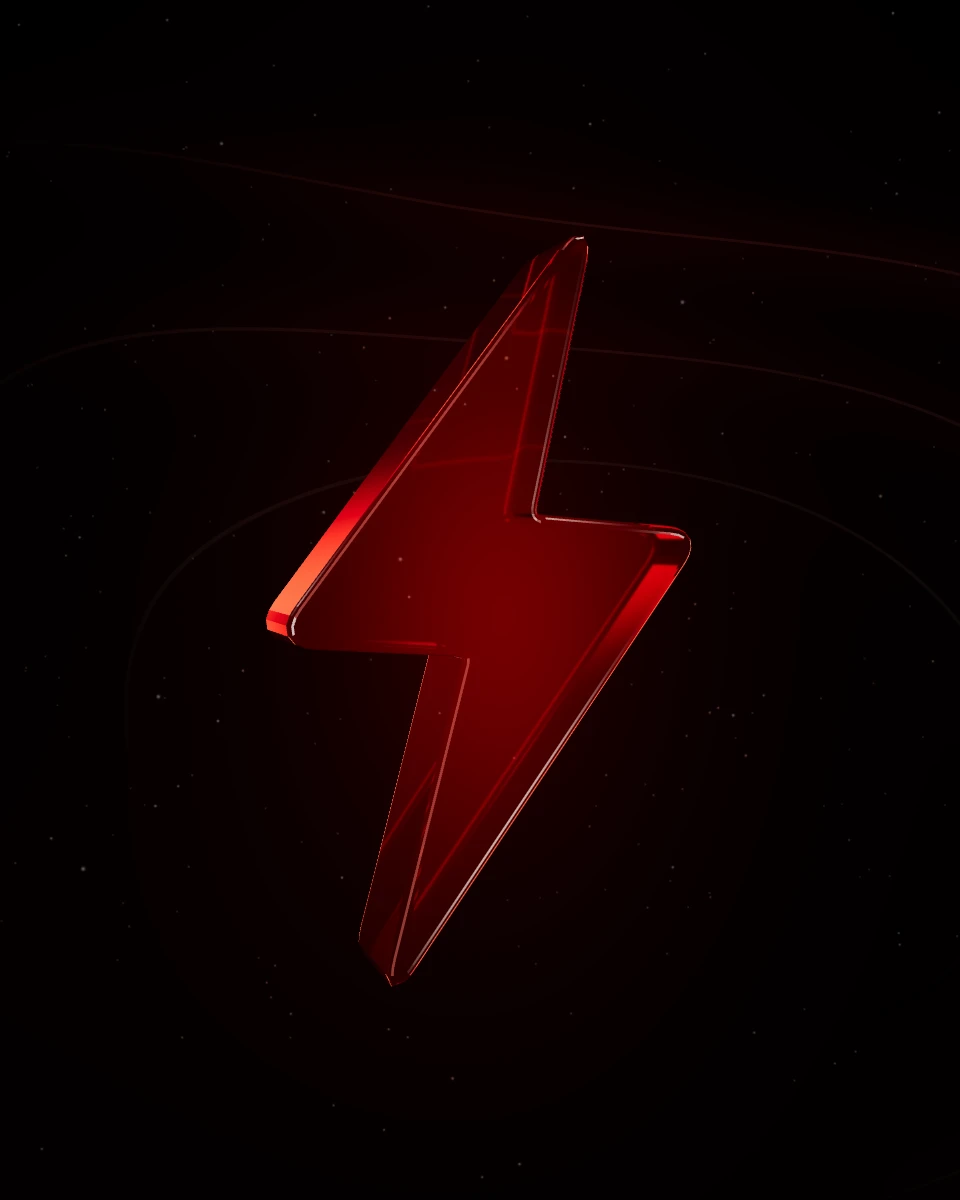
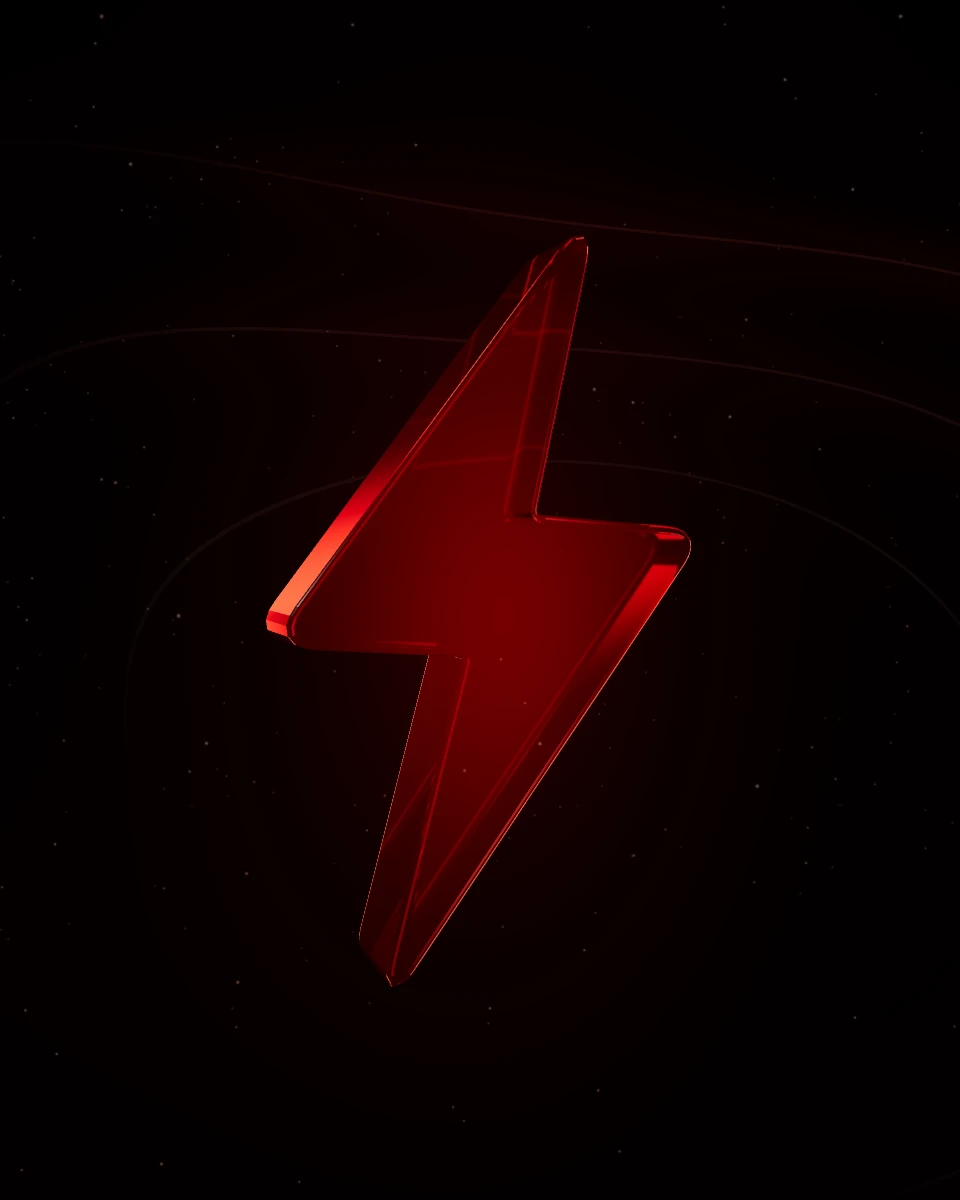
étape 9 : verre sans face blanche ni rose (studio de lumière rouge), bloc final qui prend le relais plus tard sur petit iPhone, finitions du contact, de la FAQ et des boutons
- studio de lumière : la grande boîte et les bandes claires passent au rouge ; une face plane vue en rasant renvoie un rouge lumineux au lieu d'un blanc saturé
- images fixes de l'éclair régénérées avec ce rendu
- accueil : le chapitre 4 garde son texte jusqu'à ce que le titre du bloc final soit à l'écran (iPhone avec barre d'adresse affichée)
- contact : surtitres des trois cartes à la même hauteur, bouton e-mail en bas de carte
- FAQ : questions alignées sur le titre ; mentions des deux badges plus écartées ; menu sur une ligne ; focus des boutons dégagé de la lame rouge

Claude-Session: https://claude.ai/code/session_013u129ipLgSJq7hNFvTtcP9

diff --git a/index.html b/index.html
@@ -14,9 +14,9 @@
 <link rel="apple-touch-icon" href="assets/img/apple-touch-icon.png">
 <link rel="preload" href="assets/fonts/anton-400.woff2" as="font" type="font/woff2" crossorigin>
 <link rel="preload" href="assets/fonts/exo2-400.woff2" as="font" type="font/woff2" crossorigin>
-<link rel="stylesheet" href="assets/css/tokens.css?v=20261006-1335">
-<link rel="stylesheet" href="assets/css/base.css?v=20261006-1335">
-<link rel="stylesheet" href="assets/css/accueil.css?v=20261006-1335">
+<link rel="stylesheet" href="assets/css/tokens.css?v=20261006-1400">
+<link rel="stylesheet" href="assets/css/base.css?v=20261006-1400">
+<link rel="stylesheet" href="assets/css/accueil.css?v=20261006-1400">
 <!-- /gabarit:tete -->
 <title>Flash eSport — L'app des résultats eSport en direct</title>
 <meta name="description" content="Flash eSport, l'application française des résultats eSport : scores en direct, calendrier et tournois de tes équipes sur CS2, LoL, VALORANT, Dota 2, R6 et Rocket League.">
@@ -106,7 +106,7 @@
     <span class="loader-bar"><span id="loader-fill"></span></span>
   </div>
 </div>
-<script src="assets/js/demarrage.js?v=20261006-1335"></script>
+<script src="assets/js/demarrage.js?v=20261006-1400"></script>
 <!-- gabarit:entete -->
 <a class="lien-evitement" href="#contenu">Aller au contenu</a>
 <header class="entete">
@@ -305,8 +305,8 @@
 <div class="cursor-label" aria-hidden="true">000</div>
 <canvas id="webgl" aria-hidden="true"></canvas>
 <!-- gabarit:scripts -->
-<script src="assets/js/site.js?v=20261006-1335" defer></script>
-<script type="module" src="assets/js/accueil.js?v=20261006-1335"></script>
+<script src="assets/js/site.js?v=20261006-1400" defer></script>
+<script type="module" src="assets/js/accueil.js?v=20261006-1400"></script>
 <!-- /gabarit:scripts -->
 </body>
 </html>

diff --git a/assets/js/app.js b/assets/js/app.js
@@ -165,13 +165,13 @@ function createGlassEnvironment() {
     const studio = new THREE.Scene();
     studio.background = new THREE.Color('#0a0606');
     const panels = [
-        [2.8, 8, -4, 2, 3, '#ffa094', 1.5],      // grande boîte : rouge clair, pour que les faces ne blanchissent pas
-        [0.45, 7, 3, 1, 2, '#ffe6e0', 3.8],      // bandes fines blanches : elles dessinent les arêtes
-        [5, 0.7, 0, 5, -1, '#ffe2da', 2.8],
+        [2.8, 8, -4, 2, 3, '#f03226', 1.2],      // grande boîte : rouge clair, pour que les faces ne blanchissent pas
+        [0.45, 7, 3, 1, 2, '#ff5c4a', 2.6],      // bandes fines blanches : elles dessinent les arêtes
+        [5, 0.7, 0, 5, -1, '#ff5846', 2.2],
         [0.5, 6, -2, 0, -4, '#e01818', 3.4],
         [1.0, 5, 3, -1, -3, '#ff4a3a', 2.6],
         [4, 0.35, 0, -3, 3, '#ff2020', 3.0],
-        [0.16, 5, -3, 0, 2, '#ffffff', 6.0],
+        [0.16, 5, -3, 0, 2, '#ff4e3e', 3.0],
         [0.35, 4, 4, 0, -2, '#ff5a3c', 2.0]
     ];
     for (const [w, h, x, y, z, color, intensity] of panels) {
@@ -1240,7 +1240,7 @@ function readScroll() {
     // section, plus haute que lui, dépasse le bas de la fenêtre) : le chapitre 4 garde son texte et son
     // éclair jusque-là, il n'y a jamais d'écran sans texte entre les deux.
     if (contactSection) {
-        const enter = clamp(0.06 + contactCardElement.offsetTop / window.innerHeight, 0, 0.8);
+        const enter = clamp(0.14 + contactCardElement.offsetTop / window.innerHeight, 0, 0.8);
         targetContact = clamp(((scrollTop - maxScroll) / window.innerHeight - enter) / (1 - enter), 0, 1);
     } else targetContact = 0;
     finalOpen = targetContact > 0.02;

diff --git a/assets/css/pages.css b/assets/css/pages.css
@@ -56,6 +56,9 @@ main > .page-tete:last-child { padding-bottom: var(--e-6); }
 }
 .contact-mail:hover { background-size: 100% 4px; }
 .carte h2 { margin-bottom: 0.75rem; }
+.carte .surtitre { display: flex; }
+.contact-bloc .carte:first-child .btn { margin-top: auto; }
+.contact-bloc .carte:first-child p { margin-bottom: 1.5rem; }
 .carte p { color: var(--texte-doux); }
 .carte p + p { margin-top: 0.75rem; }
 .carte .btn { margin-top: 1.25rem; }
@@ -72,7 +75,7 @@ main > .page-tete:last-child { padding-bottom: var(--e-6); }
 .faq details { border-bottom: 1px solid var(--trait); }
 .faq summary {
   position: relative; display: flex; align-items: center; justify-content: space-between; gap: 1.5rem;
-  min-height: 72px; padding: 1.25rem 0.25rem; cursor: pointer; list-style: none;
+  min-height: 72px; padding: 1.25rem 0; cursor: pointer; list-style: none;
   font-family: var(--police-titre); font-size: clamp(1.25rem, 2.6vw, 1.625rem); line-height: 1.2; letter-spacing: 0.02em;
   text-transform: uppercase; color: var(--blanc);
   transition: color 0.3s ease;
@@ -92,7 +95,7 @@ main > .page-tete:last-child { padding-bottom: var(--e-6); }
   content: ""; position: absolute; left: 0; bottom: 0; width: 3.5rem; height: 2px; border-radius: 2px;
   background: var(--rouge-lumiere); box-shadow: 0 0 14px 1px var(--rouge-halo);
 }
-.faq .reponse { padding: 1.1rem 0.25rem 1.6rem; max-width: 62ch; color: var(--texte-doux); }
+.faq .reponse { padding: 1.1rem 0 1.6rem; max-width: 62ch; color: var(--texte-doux); }
 .faq .reponse p + p { margin-top: 0.75rem; }
 
 /* ---- Pages légales : lecture confortable ---- */

diff --git a/assets/css/base.css b/assets/css/base.css
@@ -145,7 +145,7 @@ html[data-qualite="1"] .pied, html[data-qualite="2"] .pied {
 
 .nav { display: flex; align-items: center; gap: clamp(1.25rem, 2.6vw, 2.25rem); }
 .nav a {
-  position: relative; display: inline-flex; align-items: center; min-height: 44px;
+  position: relative; display: inline-flex; align-items: center; min-height: 44px; white-space: nowrap;
   font-size: var(--t-petit); font-weight: 500; letter-spacing: 0.06em;
   color: var(--texte-doux); text-decoration: none;
   transition: color 0.35s ease;
@@ -213,7 +213,7 @@ html[data-qualite="1"] .pied, html[data-qualite="2"] .pied {
 }
 /* Appui (iPhone) : légère compression, retour élastique. */
 .btn:active { transform: scale(0.97); transition-duration: 0.35s, 0.35s, 0.09s; }
-.btn:focus-visible { outline: 1.5px solid var(--blanc); outline-offset: 4px; }
+.btn:focus-visible { outline: 1.5px solid var(--blanc); outline-offset: 7px; }
 a, button, summary { -webkit-tap-highlight-color: transparent; }
 .btn-rouge {
   background: var(--rouge-fond); border-color: var(--rouge-contour);
@@ -266,6 +266,7 @@ a.badge-lien:focus-visible::after { opacity: 1; transform: none; }
 }
 /* Téléphone : la mention ne doit jamais être plus large que son badge. */
 @media (max-width: 599px) { .badge-mention { font-size: 0.5938rem; letter-spacing: 0.1em; } }
+@media (min-width: 600px) { .badges { column-gap: 1.75rem; } }
 @media (max-width: 359px) { .badges { --badge-h: 40px; --badge-g: 52px; --badge-gm: -6px; gap: 0.75rem; } }
 
 /* ---- Liens de texte ---- */

diff --git a/telechargement.html b/telechargement.html
@@ -14,9 +14,9 @@
 <link rel="apple-touch-icon" href="assets/img/apple-touch-icon.png">
 <link rel="preload" href="assets/fonts/anton-400.woff2" as="font" type="font/woff2" crossorigin>
 <link rel="preload" href="assets/fonts/exo2-400.woff2" as="font" type="font/woff2" crossorigin>
-<link rel="stylesheet" href="assets/css/tokens.css?v=20261006-1335">
-<link rel="stylesheet" href="assets/css/base.css?v=20261006-1335">
-<link rel="stylesheet" href="assets/css/pages.css?v=20261006-1335">
+<link rel="stylesheet" href="assets/css/tokens.css?v=20261006-1400">
+<link rel="stylesheet" href="assets/css/base.css?v=20261006-1400">
+<link rel="stylesheet" href="assets/css/pages.css?v=20261006-1400">
 <!-- /gabarit:tete -->
 <title>Téléchargement — Flash eSport</title>
 <meta name="description" content="Télécharger Flash eSport, l'application gratuite de résultats eSport : très bientôt sur iPhone (App Store), puis sur Android (Google Play).">
@@ -117,7 +117,7 @@
 </footer>
 <!-- /gabarit:pied -->
 <!-- gabarit:scripts -->
-<script src="assets/js/site.js?v=20261006-1335" defer></script>
+<script src="assets/js/site.js?v=20261006-1400" defer></script>
 <!-- /gabarit:scripts -->
 </body>
 </html>

diff --git a/mentions-legales.html b/mentions-legales.html
@@ -14,9 +14,9 @@
 <link rel="apple-touch-icon" href="assets/img/apple-touch-icon.png">
 <link rel="preload" href="assets/fonts/anton-400.woff2" as="font" type="font/woff2" crossorigin>
 <link rel="preload" href="assets/fonts/exo2-400.woff2" as="font" type="font/woff2" crossorigin>
-<link rel="stylesheet" href="assets/css/tokens.css?v=20261006-1335">
-<link rel="stylesheet" href="assets/css/base.css?v=20261006-1335">
-<link rel="stylesheet" href="assets/css/pages.css?v=20261006-1335">
+<link rel="stylesheet" href="assets/css/tokens.css?v=20261006-1400">
+<link rel="stylesheet" href="assets/css/base.css?v=20261006-1400">
+<link rel="stylesheet" href="assets/css/pages.css?v=20261006-1400">
 <!-- /gabarit:tete -->
 <title>Mentions légales — Flash eSport</title>
 <meta name="description" content="Mentions légales du site et de l'application Flash eSport.">
@@ -124,7 +124,7 @@ Contact : <a href="mailto:flashesport.app@gmail.com">flashesport.app@gmail.com</
 </footer>
 <!-- /gabarit:pied -->
 <!-- gabarit:scripts -->
-<script src="assets/js/site.js?v=20261006-1335" defer></script>
+<script src="assets/js/site.js?v=20261006-1400" defer></script>
 <!-- /gabarit:scripts -->
 </body>
 </html>

diff --git a/faq.html b/faq.html
@@ -14,9 +14,9 @@
 <link rel="apple-touch-icon" href="assets/img/apple-touch-icon.png">
 <link rel="preload" href="assets/fonts/anton-400.woff2" as="font" type="font/woff2" crossorigin>
 <link rel="preload" href="assets/fonts/exo2-400.woff2" as="font" type="font/woff2" crossorigin>
-<link rel="stylesheet" href="assets/css/tokens.css?v=20261006-1335">
-<link rel="stylesheet" href="assets/css/base.css?v=20261006-1335">
-<link rel="stylesheet" href="assets/css/pages.css?v=20261006-1335">
+<link rel="stylesheet" href="assets/css/tokens.css?v=20261006-1400">
+<link rel="stylesheet" href="assets/css/base.css?v=20261006-1400">
+<link rel="stylesheet" href="assets/css/pages.css?v=20261006-1400">
 <!-- /gabarit:tete -->
 <title>FAQ — Flash eSport</title>
 <meta name="description" content="Jeux couverts, compte, prix, Android, données : les réponses aux questions fréquentes sur l'app Flash eSport.">
@@ -136,7 +136,7 @@
 </footer>
 <!-- /gabarit:pied -->
 <!-- gabarit:scripts -->
-<script src="assets/js/site.js?v=20261006-1335" defer></script>
+<script src="assets/js/site.js?v=20261006-1400" defer></script>
 <!-- /gabarit:scripts -->
 </body>
 </html>

diff --git a/cgu.html b/cgu.html
@@ -14,9 +14,9 @@
 <link rel="apple-touch-icon" href="assets/img/apple-touch-icon.png">
 <link rel="preload" href="assets/fonts/anton-400.woff2" as="font" type="font/woff2" crossorigin>
 <link rel="preload" href="assets/fonts/exo2-400.woff2" as="font" type="font/woff2" crossorigin>
-<link rel="stylesheet" href="assets/css/tokens.css?v=20261006-1335">
-<link rel="stylesheet" href="assets/css/base.css?v=20261006-1335">
-<link rel="stylesheet" href="assets/css/pages.css?v=20261006-1335">
+<link rel="stylesheet" href="assets/css/tokens.css?v=20261006-1400">
+<link rel="stylesheet" href="assets/css/base.css?v=20261006-1400">
+<link rel="stylesheet" href="assets/css/pages.css?v=20261006-1400">
 <!-- /gabarit:tete -->
 <title>Conditions générales d'utilisation — Flash eSport</title>
 <meta name="description" content="Conditions générales d'utilisation de l'application et du site Flash eSport.">
@@ -224,7 +224,7 @@
 </footer>
 <!-- /gabarit:pied -->
 <!-- gabarit:scripts -->
-<script src="assets/js/site.js?v=20261006-1335" defer></script>
+<script src="assets/js/site.js?v=20261006-1400" defer></script>
 <!-- /gabarit:scripts -->
 </body>
 </html>

diff --git a/contact.html b/contact.html
@@ -14,9 +14,9 @@
 <link rel="apple-touch-icon" href="assets/img/apple-touch-icon.png">
 <link rel="preload" href="assets/fonts/anton-400.woff2" as="font" type="font/woff2" crossorigin>
 <link rel="preload" href="assets/fonts/exo2-400.woff2" as="font" type="font/woff2" crossorigin>
-<link rel="stylesheet" href="assets/css/tokens.css?v=20261006-1335">
-<link rel="stylesheet" href="assets/css/base.css?v=20261006-1335">
-<link rel="stylesheet" href="assets/css/pages.css?v=20261006-1335">
+<link rel="stylesheet" href="assets/css/tokens.css?v=20261006-1400">
+<link rel="stylesheet" href="assets/css/base.css?v=20261006-1400">
+<link rel="stylesheet" href="assets/css/pages.css?v=20261006-1400">
 <!-- /gabarit:tete -->
 <title>Contact — Flash eSport</title>
 <meta name="description" content="Une question, un bug ou une idée ? Écris à Flash eSport par e-mail, ou retrouve-nous sur Instagram et X.">
@@ -117,7 +117,7 @@
 </footer>
 <!-- /gabarit:pied -->
 <!-- gabarit:scripts -->
-<script src="assets/js/site.js?v=20261006-1335" defer></script>
+<script src="assets/js/site.js?v=20261006-1400" defer></script>
 <!-- /gabarit:scripts -->
 </body>
 </html>

diff --git a/privacy.html b/privacy.html
@@ -14,9 +14,9 @@
 <link rel="apple-touch-icon" href="assets/img/apple-touch-icon.png">
 <link rel="preload" href="assets/fonts/anton-400.woff2" as="font" type="font/woff2" crossorigin>
 <link rel="preload" href="assets/fonts/exo2-400.woff2" as="font" type="font/woff2" crossorigin>
-<link rel="stylesheet" href="assets/css/tokens.css?v=20261006-1335">
-<link rel="stylesheet" href="assets/css/base.css?v=20261006-1335">
-<link rel="stylesheet" href="assets/css/pages.css?v=20261006-1335">
+<link rel="stylesheet" href="assets/css/tokens.css?v=20261006-1400">
+<link rel="stylesheet" href="assets/css/base.css?v=20261006-1400">
+<link rel="stylesheet" href="assets/css/pages.css?v=20261006-1400">
 <!-- /gabarit:tete -->
 <title>Politique de confidentialité — Flash eSport</title>
 <meta name="description" content="Comment Flash eSport collecte, utilise et protège vos données personnelles.">
@@ -311,7 +311,7 @@
 </footer>
 <!-- /gabarit:pied -->
 <!-- gabarit:scripts -->
-<script src="assets/js/site.js?v=20261006-1335" defer></script>
+<script src="assets/js/site.js?v=20261006-1400" defer></script>
 <!-- /gabarit:scripts -->
 </body>
 </html>

diff --git a/404.html b/404.html
@@ -14,9 +14,9 @@
 <link rel="apple-touch-icon" href="/assets/img/apple-touch-icon.png">
 <link rel="preload" href="/assets/fonts/anton-400.woff2" as="font" type="font/woff2" crossorigin>
 <link rel="preload" href="/assets/fonts/exo2-400.woff2" as="font" type="font/woff2" crossorigin>
-<link rel="stylesheet" href="/assets/css/tokens.css?v=20261006-1335">
-<link rel="stylesheet" href="/assets/css/base.css?v=20261006-1335">
-<link rel="stylesheet" href="/assets/css/pages.css?v=20261006-1335">
+<link rel="stylesheet" href="/assets/css/tokens.css?v=20261006-1400">
+<link rel="stylesheet" href="/assets/css/base.css?v=20261006-1400">
+<link rel="stylesheet" href="/assets/css/pages.css?v=20261006-1400">
 <!-- /gabarit:tete -->
 <title>Page introuvable — Flash eSport</title>
 <meta name="description" content="Cette page n'existe pas ou a été déplacée.">
@@ -98,7 +98,7 @@
 </footer>
 <!-- /gabarit:pied -->
 <!-- gabarit:scripts -->
-<script src="/assets/js/site.js?v=20261006-1335" defer></script>
+<script src="/assets/js/site.js?v=20261006-1400" defer></script>
 <!-- /gabarit:scripts -->
 </body>
 </html>

diff --git a/assets/css/tokens.css b/assets/css/tokens.css
@@ -24,7 +24,7 @@
   --verre-dense: rgba(4, 4, 4, 0.86);
   --verre-barre: rgba(0, 0, 0, 0.66);            /* barre du haut et pied de page : verre sombre translucide, comme dans l'app */
   --verre-barre-opaque: rgba(0, 0, 0, 0.88);     /* même barre sans flou (paliers de qualité bas, navigateurs sans flou) */
-  --verre-menu: rgba(0, 0, 0, 0.82);
+  --verre-menu: rgba(0, 0, 0, 0.88);
   --voile: rgba(0, 0, 0, 0.55);
   --voile-fort: rgba(0, 0, 0, 0.82);
   --reflet: rgba(255, 255, 255, 0.10);
